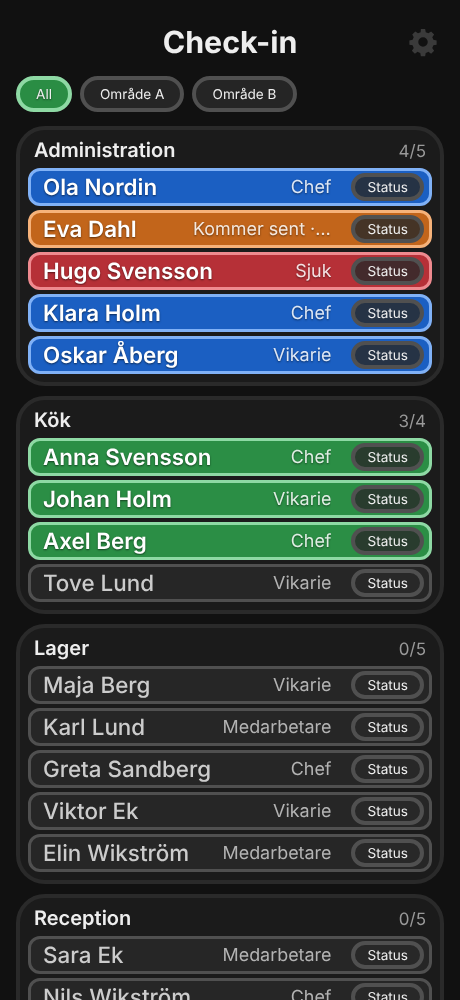
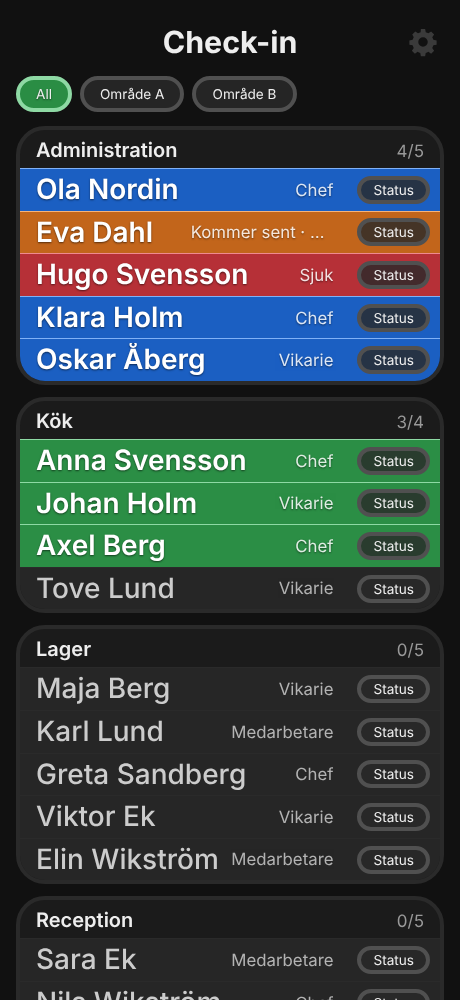
Board: edge-to-edge rows with dividers, larger names (1.75em)
Claude-Session: https://claude.ai/code/session_014DrcbBH7nJLN84r9X2Dn8X

Changed region(s): [[0.0304, 0.124, 0.9739, 1.0]]

diff --git a/page/page.css b/page/page.css
@@ -196,12 +196,12 @@
  .bgpart.part{position:fixed;left:0;right:0;z-index:-1;pointer-events:none} .bgpart.part.top{top:0} .bgpart.part.bottom{bottom:0}   /* a background that fills only an area: its module sets the height */
  /* ===== the roster widget (a box per group with a row per person: grey while out, in the person's colour while in; page/widgets.js W.roster) ===== */
  .roster{display:block} .rp-chips{display:flex;flex-wrap:wrap;gap:8px;margin:0 0 14px} .rp-chips:empty{display:none}
- .rp-box{margin:0 0 10px;padding:8px 8px 4px;border-radius:var(--r-box);background:var(--card);border:var(--bw) solid var(--line)}
- .rp-gh{display:flex;align-items:baseline;justify-content:space-between;gap:10px;margin:0 6px 6px;font-size:var(--fs-lg)} .rp-gt{font-weight:600;overflow:hidden;text-overflow:ellipsis;white-space:nowrap}
- .rp-r{display:flex;align-items:center;gap:8px;min-width:0;margin:0 0 4px;padding:0 5px 0 0;border-radius:var(--r-ctl);border:3px solid var(--btn-line);background:var(--btn-bg);color:var(--text-2)}
- .rp-r.pri{background:rgba(var(--primary-rgb),.82);border-color:rgb(var(--primary-l-rgb));color:#fff;text-shadow:0 1px 2px rgba(0,0,0,.55)}
- .rp-t{flex:1;min-width:0;display:flex;align-items:center;gap:12px;padding:2px 12px;background:none;text-align:left;font-size:1.4em;line-height:1.25;color:inherit;text-shadow:inherit}
- .rp-n{flex:1;min-width:0;overflow:hidden;text-overflow:ellipsis;white-space:nowrap;font-weight:600} .rp-s{flex:none;max-width:48%;overflow:hidden;text-overflow:ellipsis;white-space:nowrap;font-size:.8em;opacity:.85}
+ .rp-box{margin:0 0 12px;padding:0;overflow:hidden;border-radius:var(--r-box);background:var(--card);border:var(--bw) solid var(--line)}
+ .rp-gh{display:flex;align-items:baseline;justify-content:space-between;gap:10px;margin:0;padding:8px 16px 6px;font-size:var(--fs-lg)} .rp-gt{font-weight:600;overflow:hidden;text-overflow:ellipsis;white-space:nowrap}
+ .rp-r{display:flex;align-items:center;gap:8px;min-width:0;margin:0;padding:0 10px 0 0;border:0;border-top:1px solid var(--line);border-radius:0;background:var(--btn-bg);color:var(--text-2)}
+ .rp-r.pri{background:rgba(var(--primary-rgb),.82);border-top-color:rgb(var(--primary-l-rgb));color:#fff;text-shadow:0 1px 2px rgba(0,0,0,.55)}
+ .rp-t{flex:1;min-width:0;display:flex;align-items:center;gap:12px;padding:4px 16px;background:none;text-align:left;font-size:1.75em;line-height:1.2;color:inherit;text-shadow:inherit}
+ .rp-n{flex:1;min-width:0;overflow:hidden;text-overflow:ellipsis;white-space:nowrap;font-weight:600} .rp-s{flex:none;max-width:48%;overflow:hidden;text-overflow:ellipsis;white-space:nowrap;font-size:.6em;opacity:.85}
  .rp-r.out .rp-n{font-weight:500}
  .rp-e{flex:none;white-space:nowrap;min-height:28px;padding:0 12px}
  .rp-empty{padding:12px 4px}

diff --git a/docs/checkin.md b/docs/checkin.md
@@ -21,7 +21,7 @@ Read before touching `modules/checkin/`, `modules/contacts/`, the `roster` widge
 - **A person's row:** grey while out; a tap on the row switches in <-> out and clears any status; in = the whole row in the colour of the person's department or building (`colour_by`); a status gives the row the **status' own colour** and its text (`"Kommer sent · 08:15"`). `POST /checkin/toggle {id}`, `POST /checkin/status {id, code, detail}` (`code` `IN`, `OUT`, `""` = clear, or a status code), `POST /checkin/all {in}` (everybody in / out, statuses cleared).
 - **Statuses** are CheckinChicken's menu, Swedish labels, with palette colours: FYS, Kommer sent (time), Går tidigare (time), Tjänsteresa (date, "tillbaka"), Sjuk, Jobbar hemifrån, Semester (date), VAB, Läkarbesök (time), Föräldraledig, Personlig dag, Annat (a note). A status that is `out` (Sjuk, Semester ...) also checks the person out; the others keep in / out. The list is `DEFAULT_STATUSES` in `netswitch_checkin.py`, replaced by `checkin.json` `"statuses"` (a list of `{code, label, colour, needs: time|date|note, default, prefix, out}`, at most 16, colours palette ids). A detail is cleaned on the server (a time is `HH:MM`, a date becomes `d/m`, a note at most 60 characters). Not ported from CheckinChicken: the "plupp" dot statuses and the admin editor for the menu.
 - **Colours are palette ids only** (`AUTO` cycles through twelve of them by the sorted department / building name; Settings > Check-in board lists every department and building with a select to give it one, `POST /checkin/colour {kind, name, colour}`; "Automatic" goes back). `colour_by` and `group_by` are `department` or `building`, so "department and/or building" is a setting.
-- **The look** (the `roster` widget): one box per group (department or building, `group_by`) in a single column; the box's top row names the group and counts who is in (`3/10`); under it a row per person, large text (1.4em), the name on the left, the status or the role on the right and the small **Status** button inside the row. Sized so that 60 people fit a 1080p screen once the page has columns (checked with temporary CSS: three columns in landscape, two in portrait, about 1010 px of 1080 and 1920 used); the page itself has one column for now, the multi-column support comes from the `development` branch.
+- **The look** (the `roster` widget): one box per group (department or building, `group_by`) in a single column; the box's top row names the group and counts who is in (`3/10`); under it a row per person, large text (1.75em), rows full width to the box edge with thin dividers, the name on the left, the status or the role on the right and the small **Status** button inside the row. Sized so that 60 people fit a 1080p screen once the page has columns (checked with temporary CSS: three columns in landscape, two in portrait, about 1010 px of 1080 and 1920 used); the page itself has one column for now, the multi-column support comes from the `development` branch.
 - **Status menu** (`ui.popup` under the row): In, Out, every status in its colour, Clear status, Close; a status that needs a time / date / note first shows the field with the default (`07:30` ...) and a **Set** button.
 - **Buildings filter:** with two or more buildings a chip row ("All", one per building) picks what this screen shows; the choice is kept in this browser (`localStorage` `checkin:locations`) and `?location=A,B` in the address sets it (`kiosk-browser.sh <host> "Område A"`). People with `restrictToLocation` show only when their own building is picked, never under "All"; people with no building show everywhere they are not restricted.
 - **Settings** also has the colour of the module (Appearance), "All out" / "All in" (tap twice).

diff --git a/README.md b/README.md
@@ -7,7 +7,7 @@ It is built on the module base of the DreamPi network switcher, and the board an
 <p align="center"><img src="docs/images/board.png" alt="The board: a box per department, a row per person, grey while out and coloured while in, a status shows on the row" width="420"> <img src="docs/images/status-menu.png" alt="The status menu" width="420"></p>
 
 What you get:
-- **A box per department with a row per person.** The whole row is grey while the person is out and turns coloured while they are in; tap it to switch. Tap **Status** on the row to pick one of CheckinChicken's statuses (times and dates are asked for where they matter); the row then shows the status in its colour. One column, large text: 60 people fit a 1080p screen in two columns (portrait) or three (landscape) once the page has columns.
+- **A box per department with a row per person.** The whole row, edge to edge in its box, is grey while the person is out and turns coloured while they are in; tap it to switch. Tap **Status** on the row to pick one of CheckinChicken's statuses (times and dates are asked for where they matter); the row then shows the status in its colour. One column, large text: 60 people fit a 1080p screen in two columns (portrait) or three (landscape) once the page has columns.
 - **Colours by department and/or building**, picked from the page's palette (automatic, or your own pick for each department / building).
 - **Screens in step in real time.** The Pi (the host) keeps everything; every other screen is only a browser that opens the host's address, in kiosk mode if you like (`kiosk/kiosk-browser.sh`). A change on one screen is on the others within about a second.
 - **A screen per building:** with several buildings a row of chips picks what a screen shows (kept in that browser; `?location=Område A` in the address sets it).
